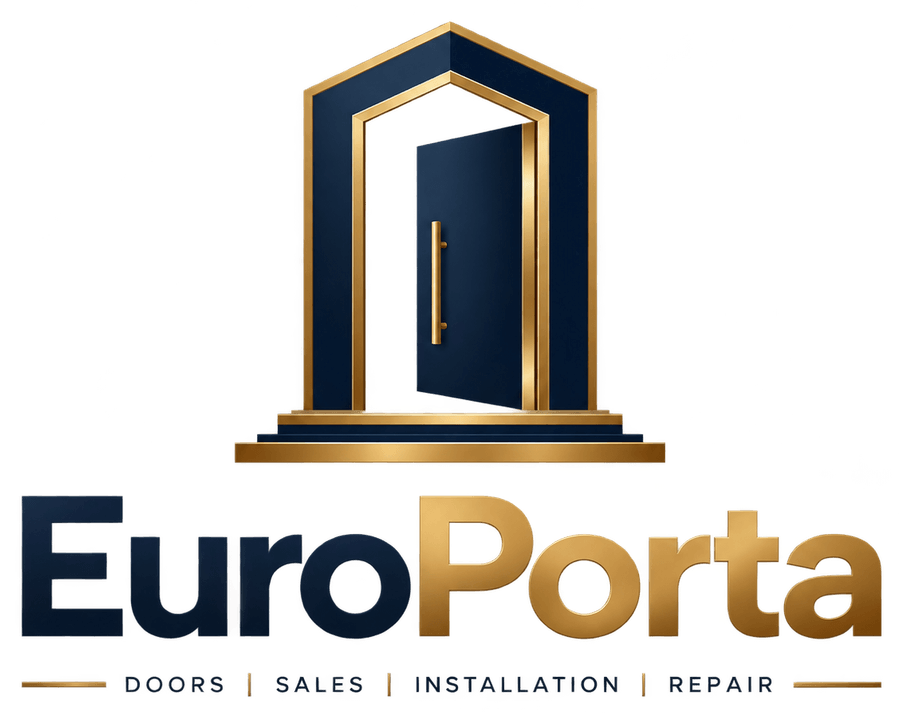
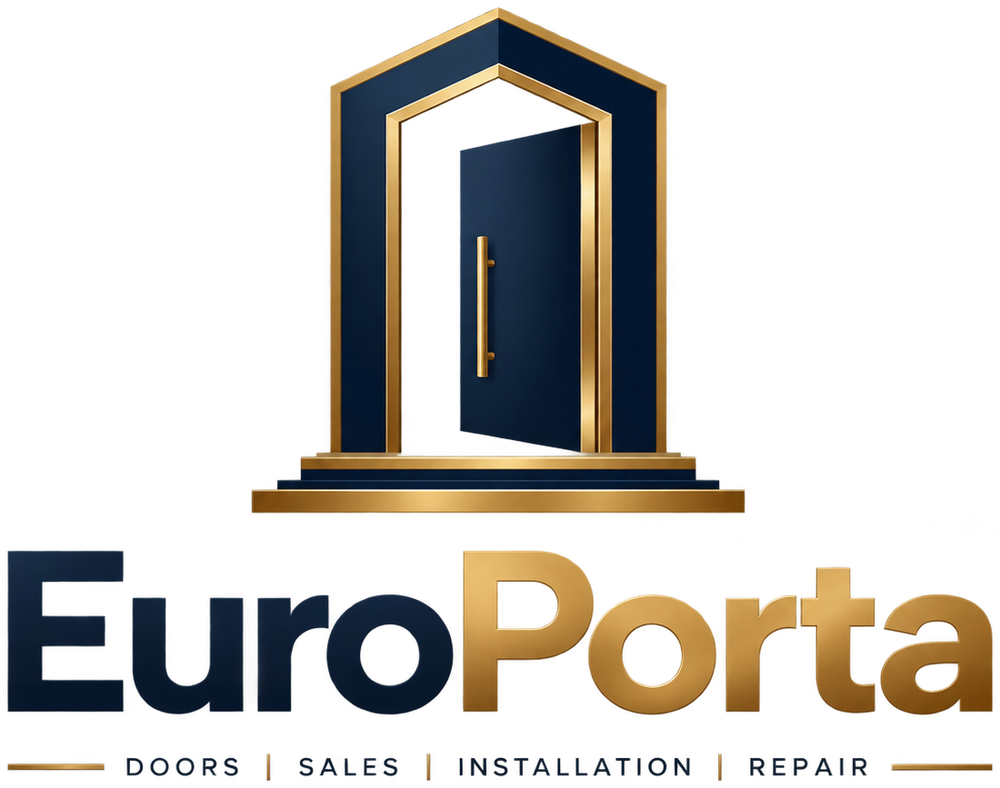
feat: şəffaf fonlu loqo variantları və vektor işarə
- Ağ fon proqram şəkildə şəffafa çevrildi (anti-aliasing qorunmaqla)
- europorta-mark.svg — vektor, çap və böyük ölçü üçün
- 512px və 180px şəffaf PNG-lər (favicon, Apple touch icon)
- public/brand/README.md — istifadə qaydaları və rəng dəyərləri

Changed region(s): [[0.0, 0.0, 0.9956, 0.986]]

diff --git a/public/brand/README.md b/public/brand/README.md
@@ -1,0 +1,33 @@
+# EuroPorta brend faylları
+
+| Fayl | İstifadə |
+|---|---|
+| `europorta-mark.svg` | Vektor işarə — çap, böyük ölçü, istənilən fon |
+| `europorta-mark.png` | 512 × 512, şəffaf fon — favicon, avatar, sosial profil |
+| `europorta-mark-180.png` | 180 × 180, şəffaf — Apple touch icon |
+| `europorta-full.png` | Tam loqo (işarə + söz nişanı), şəffaf fon |
+
+Orijinal fayl: `Logo/EuroPorta.png` (ağ fonlu).
+Şəffaf variantlar ondan proqram şəkildə çıxarılıb.
+
+## Saytda
+
+Header, footer və mobil menyuda **vektor** loqo işlənir:
+`src/components/layout/Logo.tsx`. Raster fayllar yalnız
+`opengraph`, favicon və xarici istifadə üçündür.
+
+## Rənglər
+
+| | |
+|---|---|
+| Navy | `#0b1d34` |
+| Qızıl (əsas) | `#ad7d38` |
+| Qızıl (işıqlı) | `#e8c17a` |
+| Qızıl (kölgə) | `#8f6529` |
+
+## Qaydalar
+
+- Loqonun ətrafında ən azı işarənin eninin 1/4 qədər boş sahə saxlayın.
+- İşarəni deformasiya etməyin, rəngini dəyişməyin.
+- Tünd fonda `europorta-mark.svg` olduğu kimi işləyir (portal içi ağdır).
+- Minimum ölçü: işarə 24 px, tam loqo 120 px en.
